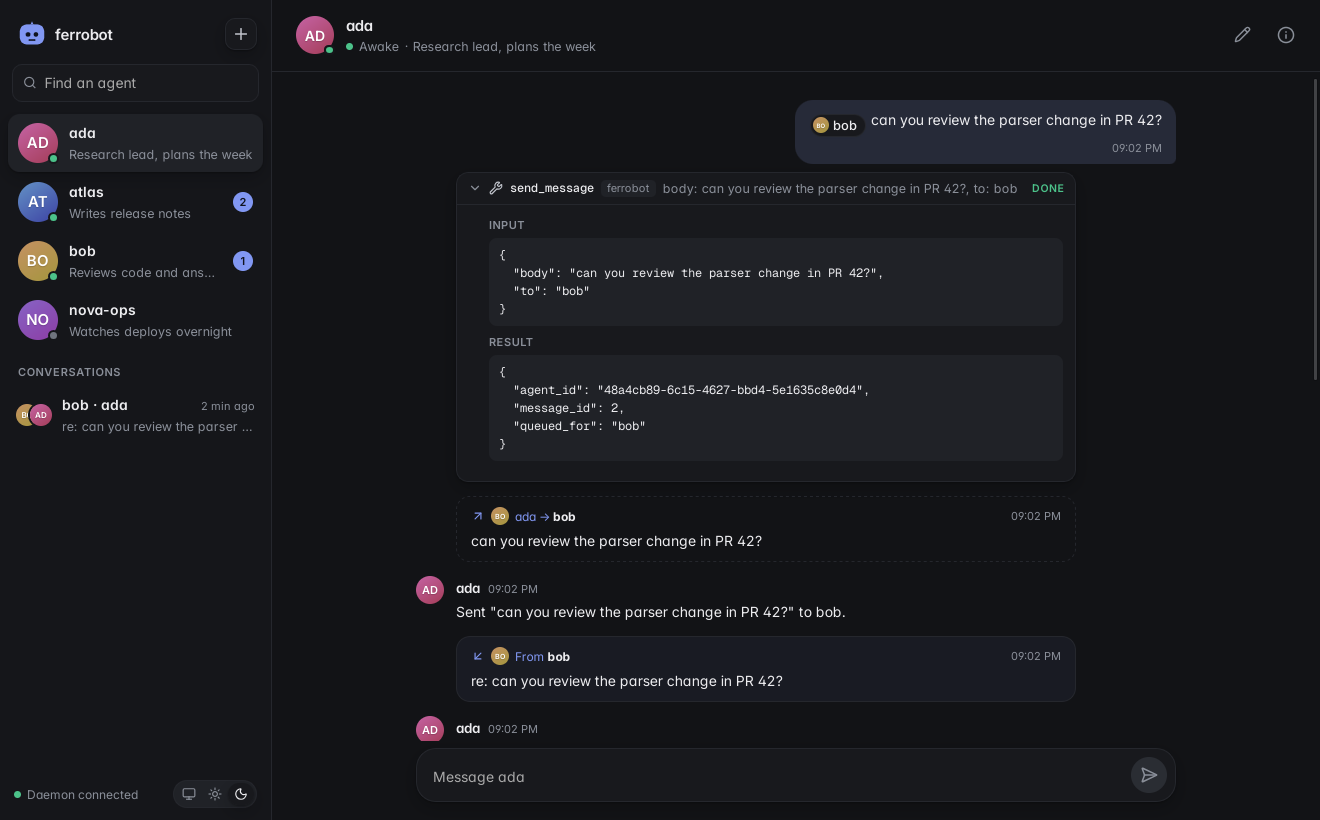
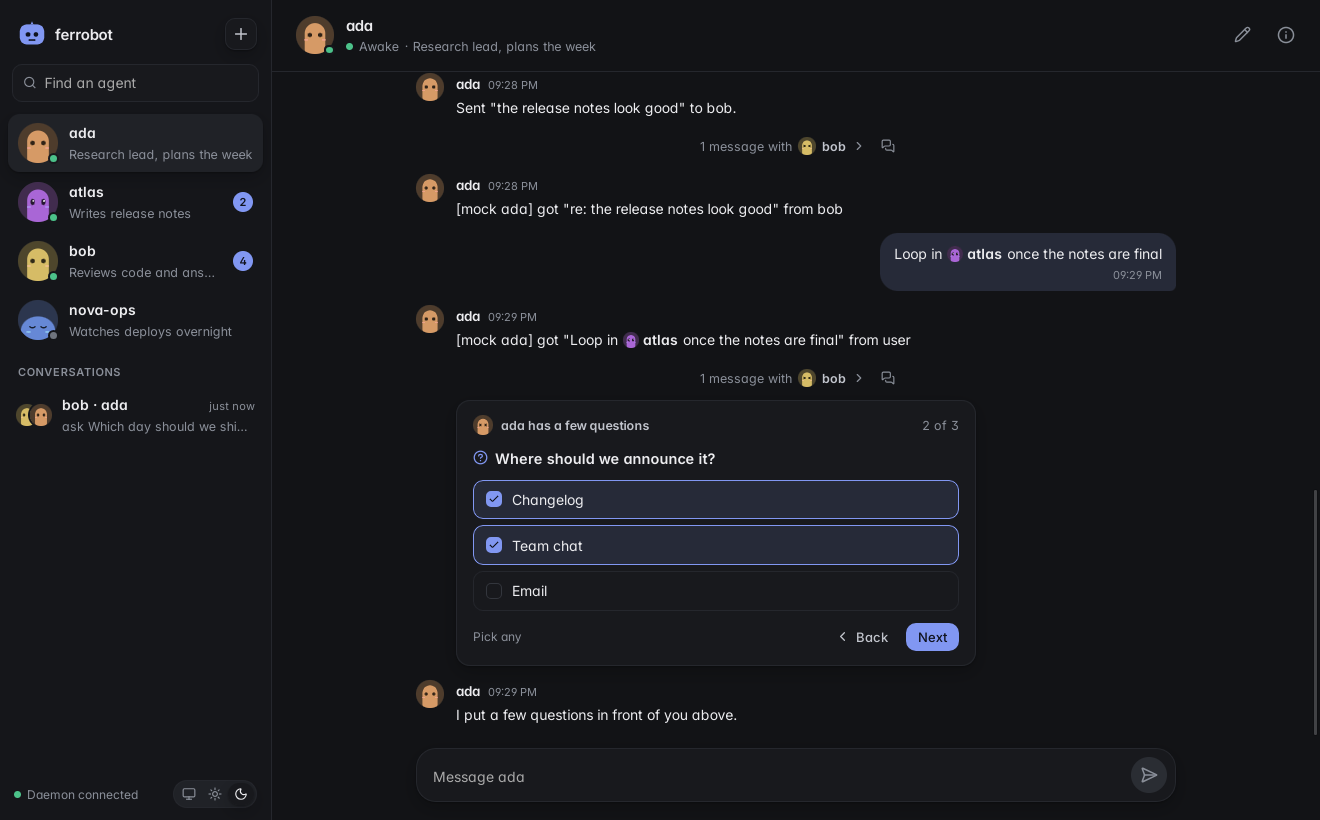
docs: refresh chat and create-dialog screenshots; demo seed asks a question
The demo seed now produces an agent-to-agent exchange, an inline mention and
a question card. Shape/Eyes/Color labels in the avatar editor.

diff --git a/apps/desktop/src/styles.css b/apps/desktop/src/styles.css
@@ -458,7 +458,7 @@ textarea { resize: vertical; min-height: 40px; line-height: 1.5; }
 .dialog-foot { display: flex; justify-content: flex-end; gap: 8px; padding: 14px 22px 18px; }
 .avatar-picker { display: flex; align-items: flex-start; gap: 18px; }
 .avatar-actions { display: flex; flex-wrap: wrap; align-items: center; gap: 6px; }
-.char-editor { display: flex; flex-direction: column; gap: 10px; min-width: 0; }
+.char-editor { display: flex; flex-direction: column; gap: 6px; min-width: 0; }
 .char-options { display: flex; flex-wrap: wrap; align-items: center; gap: 4px; }
 .char-option {
   width: 34px; height: 34px; padding: 2px; border-radius: 50%; border: 1.5px solid transparent;
@@ -467,8 +467,9 @@ textarea { resize: vertical; min-height: 40px; line-height: 1.5; }
 .char-option:hover { border-color: var(--border-strong); }
 .char-option.on { border-color: var(--accent); }
 .char-option .char-eyes { animation: none; }
-.char-sep { width: 1px; height: 22px; margin: 0 4px; background: var(--border); }
-.char-swatches { display: flex; flex-wrap: wrap; gap: 6px; }
+.char-label { width: 44px; font-size: 12px; font-weight: 550; color: var(--muted); }
+.char-swatches { display: flex; flex-wrap: wrap; align-items: center; gap: 6px; }
+.char-editor .avatar-actions { padding-left: 48px; }
 .swatch {
   width: 20px; height: 20px; border-radius: 50%; border: 2px solid var(--surface); padding: 0;
   background: hsl(var(--char-hue) 62% 58%); box-shadow: 0 0 0 1px var(--border);

diff --git a/apps/desktop/src/components/AgentDialog.tsx b/apps/desktop/src/components/AgentDialog.tsx
@@ -98,7 +98,8 @@ export function AgentDialog(props: { agent?: Agent; onClose: () => void; onSaved
               <span class="muted small">The uploaded image is shown instead of the character.</span>
             ) : (
               <>
-                <div class="char-options" role="group" aria-label="Body">
+                <div class="char-options" role="group" aria-label="Shape">
+                  <span class="char-label">Shape</span>
                   {BODIES.map((body) => (
                     <button
                       key={body}
@@ -111,7 +112,9 @@ export function AgentDialog(props: { agent?: Agent; onClose: () => void; onSaved
                       <CharacterFace look={{ ...look, body }} mood="idle" blinkDelay={0} />
                     </button>
                   ))}
-                  <span class="char-sep" />
+                </div>
+                <div class="char-options" role="group" aria-label="Eyes">
+                  <span class="char-label">Eyes</span>
                   {EYES.map((eyes) => (
                     <button
                       key={eyes}
@@ -126,6 +129,7 @@ export function AgentDialog(props: { agent?: Agent; onClose: () => void; onSaved
                   ))}
                 </div>
                 <div class="char-swatches" role="group" aria-label="Color">
+                  <span class="char-label">Color</span>
                   {HUES.map((hue) => (
                     <button
                       key={hue}

diff --git a/README.md b/README.md
@@ -16,10 +16,10 @@ and reaches the daemon through MCP tools.
 
 | Light | Dark |
 | --- | --- |
-| ![Chat with a mention and a tool call, light theme](docs/screenshots/light-chat.png) | ![Chat with an expanded tool call, dark theme](docs/screenshots/dark-chat.png) |
+| ![Chat with a collapsed agent-to-agent hint, an inline mention and a question card, light theme](docs/screenshots/light-chat.png) | ![Question card on its multiple-choice step, dark theme](docs/screenshots/dark-chat.png) |
 | ![Read-only conversation between two agents, with the Conversations section in the sidebar](docs/screenshots/light-conversation.png) | ![Info panel: computer and snapshots](docs/screenshots/dark-info-computer.png) |
 | ![Info panel: memory](docs/screenshots/light-info-memory.png) | ![Info panel: routines](docs/screenshots/dark-info-routines.png) |
-| ![Create-agent dialog](docs/screenshots/light-create-agent.png) | |
+| ![Create-agent dialog with the character avatar editor](docs/screenshots/light-create-agent.png) | |
 
 More in [`docs/screenshots/`](docs/screenshots). The agents in the screenshots
 run on the mock driver (replies like `[mock ada] got "..."`); they were seeded
